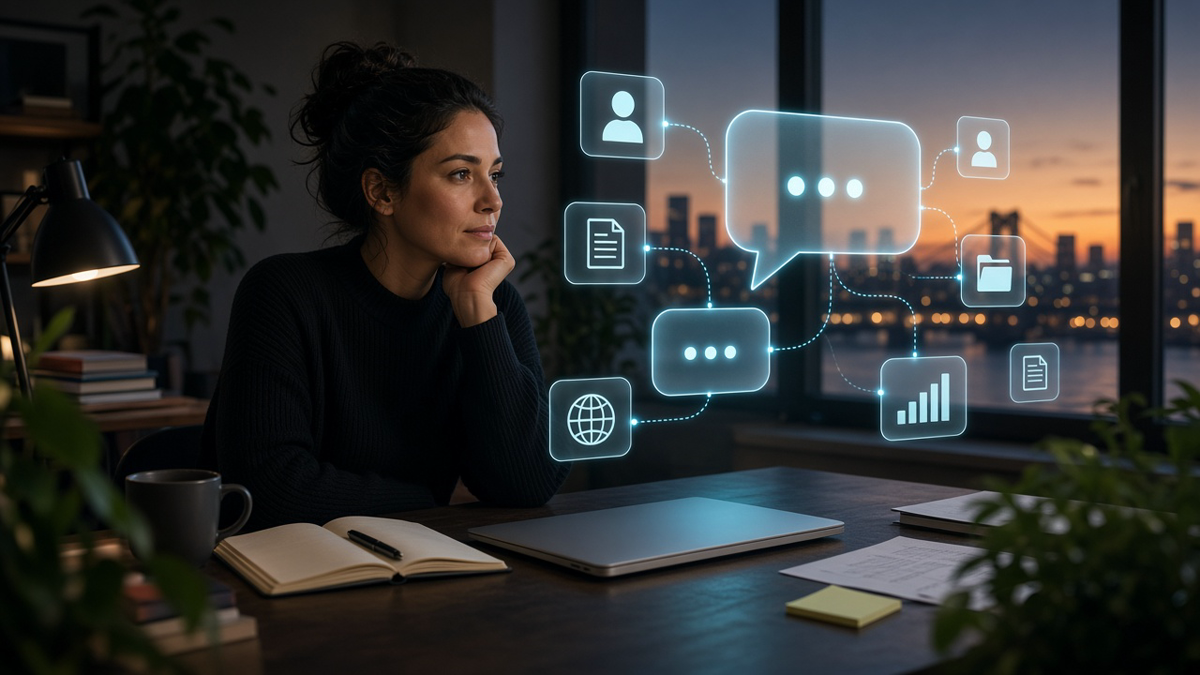
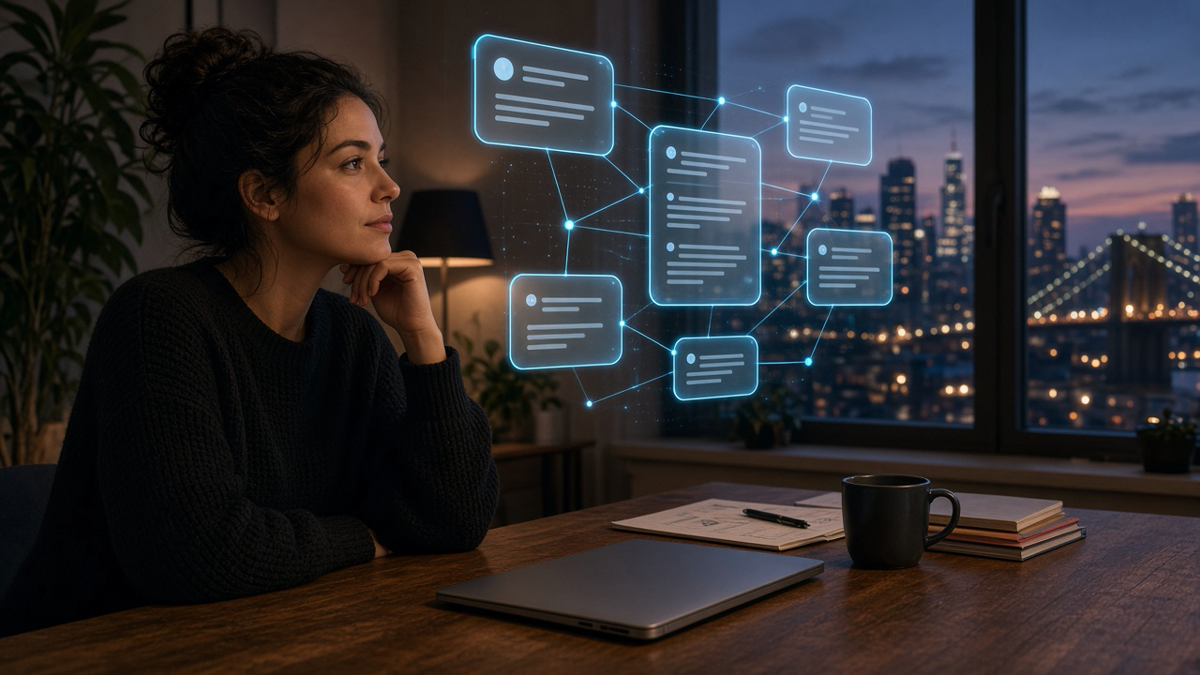
Replace place-in-AI hero and set Open Graph height to 675
Overwrite the article cover PNG at 1200x675 and match openGraph image height to the asset.

diff --git a/src/content/post/where-is-my-place-in-a-world-of-ai.md b/src/content/post/where-is-my-place-in-a-world-of-ai.md
@@ -21,7 +21,7 @@ metadata:
     images:
       - url: ~/assets/images/article_images/where-is-my-place-in-a-world-of-ai.png
         width: 1200
-        height: 630
+        height: 675
   twitter:
     cardType: summary_large_image
 ---
